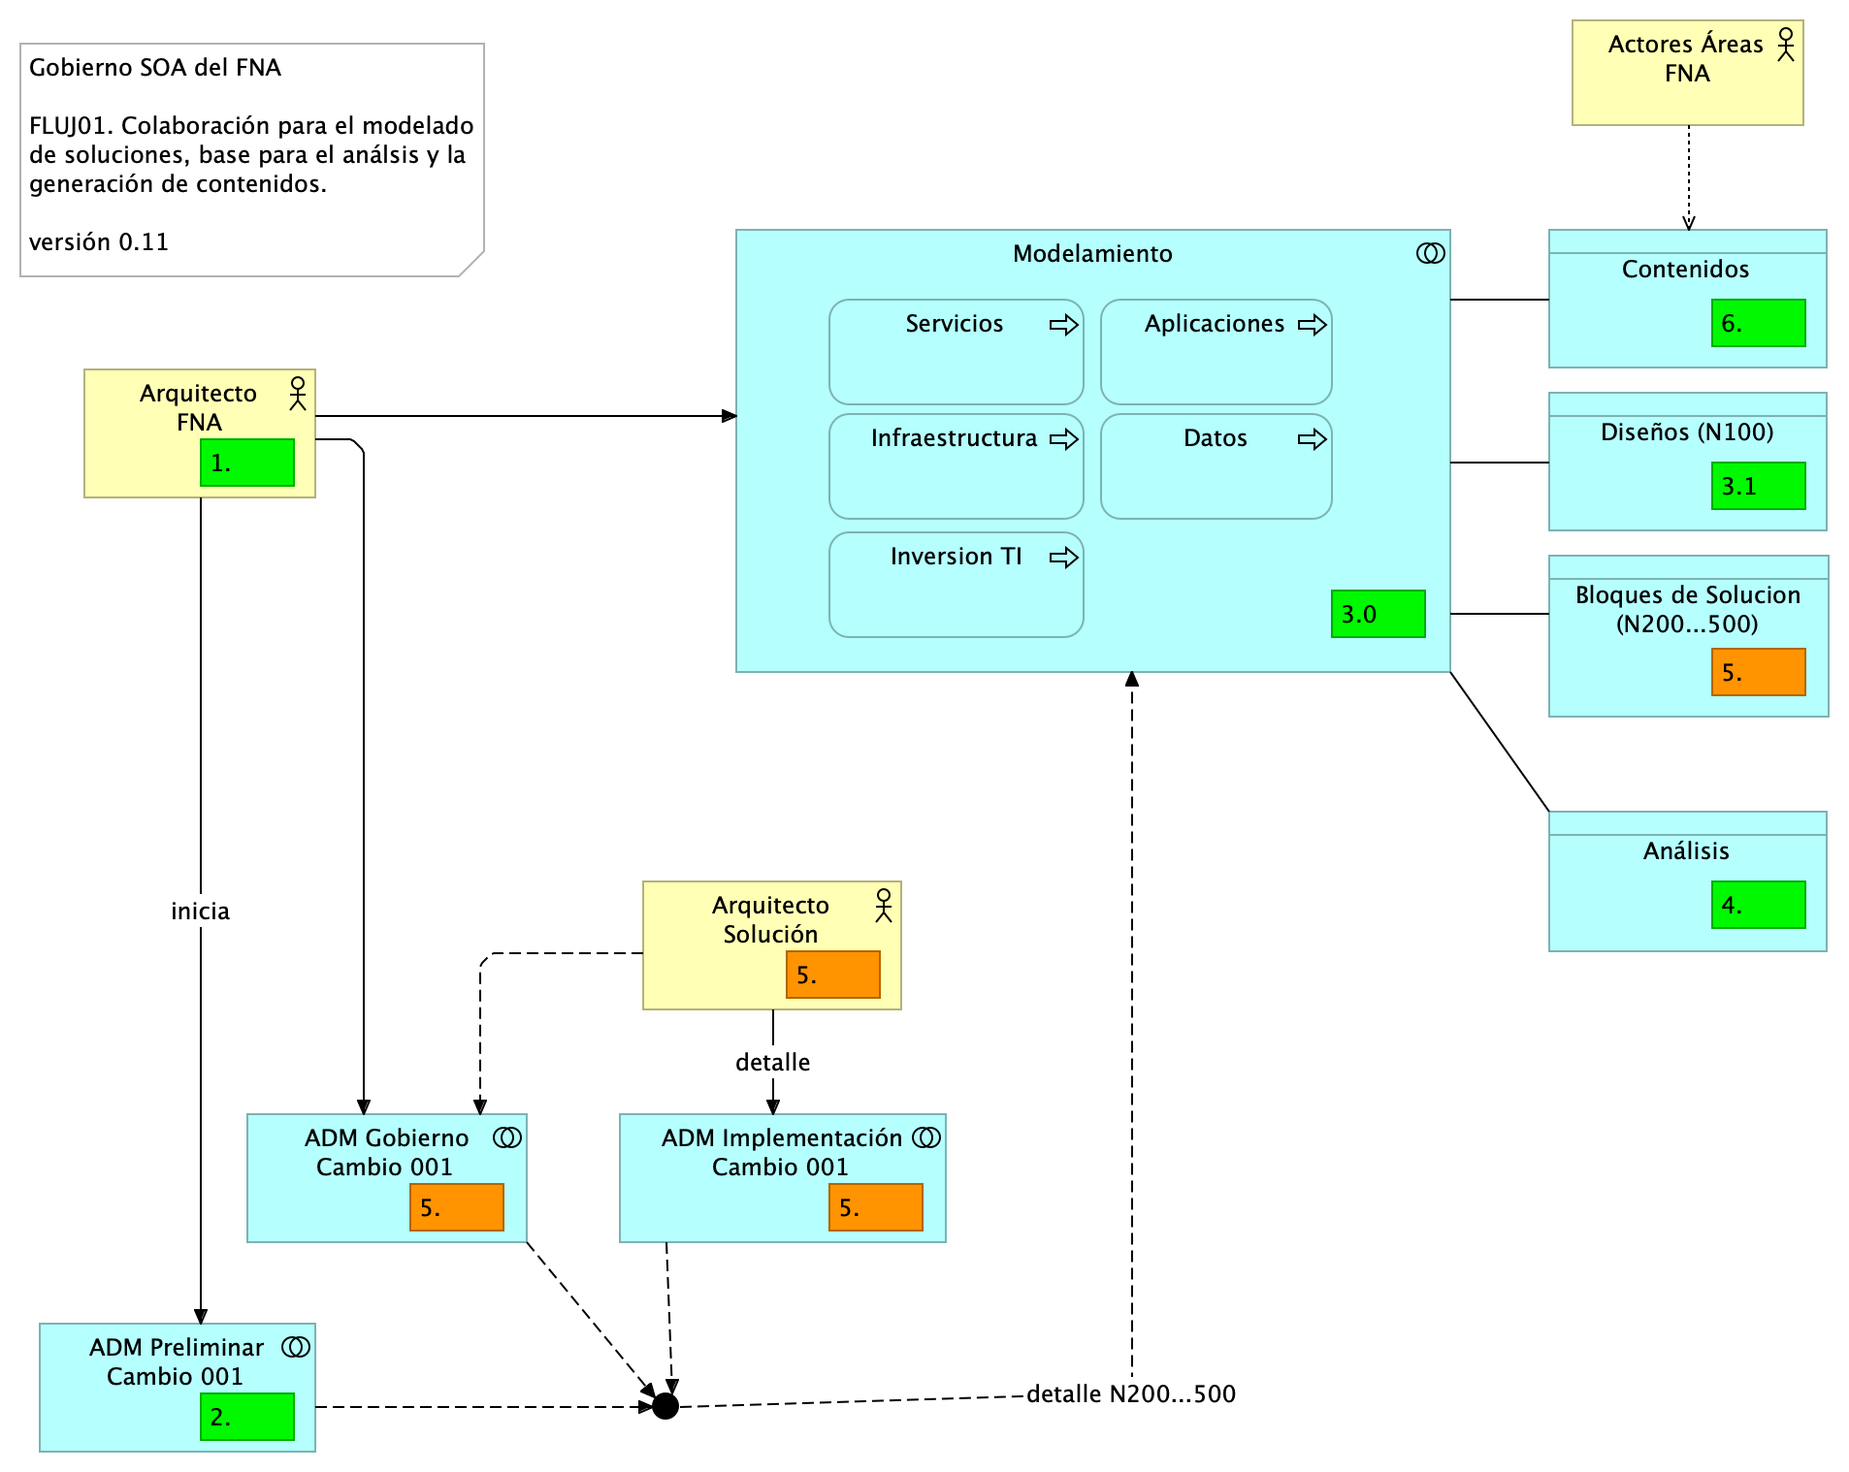
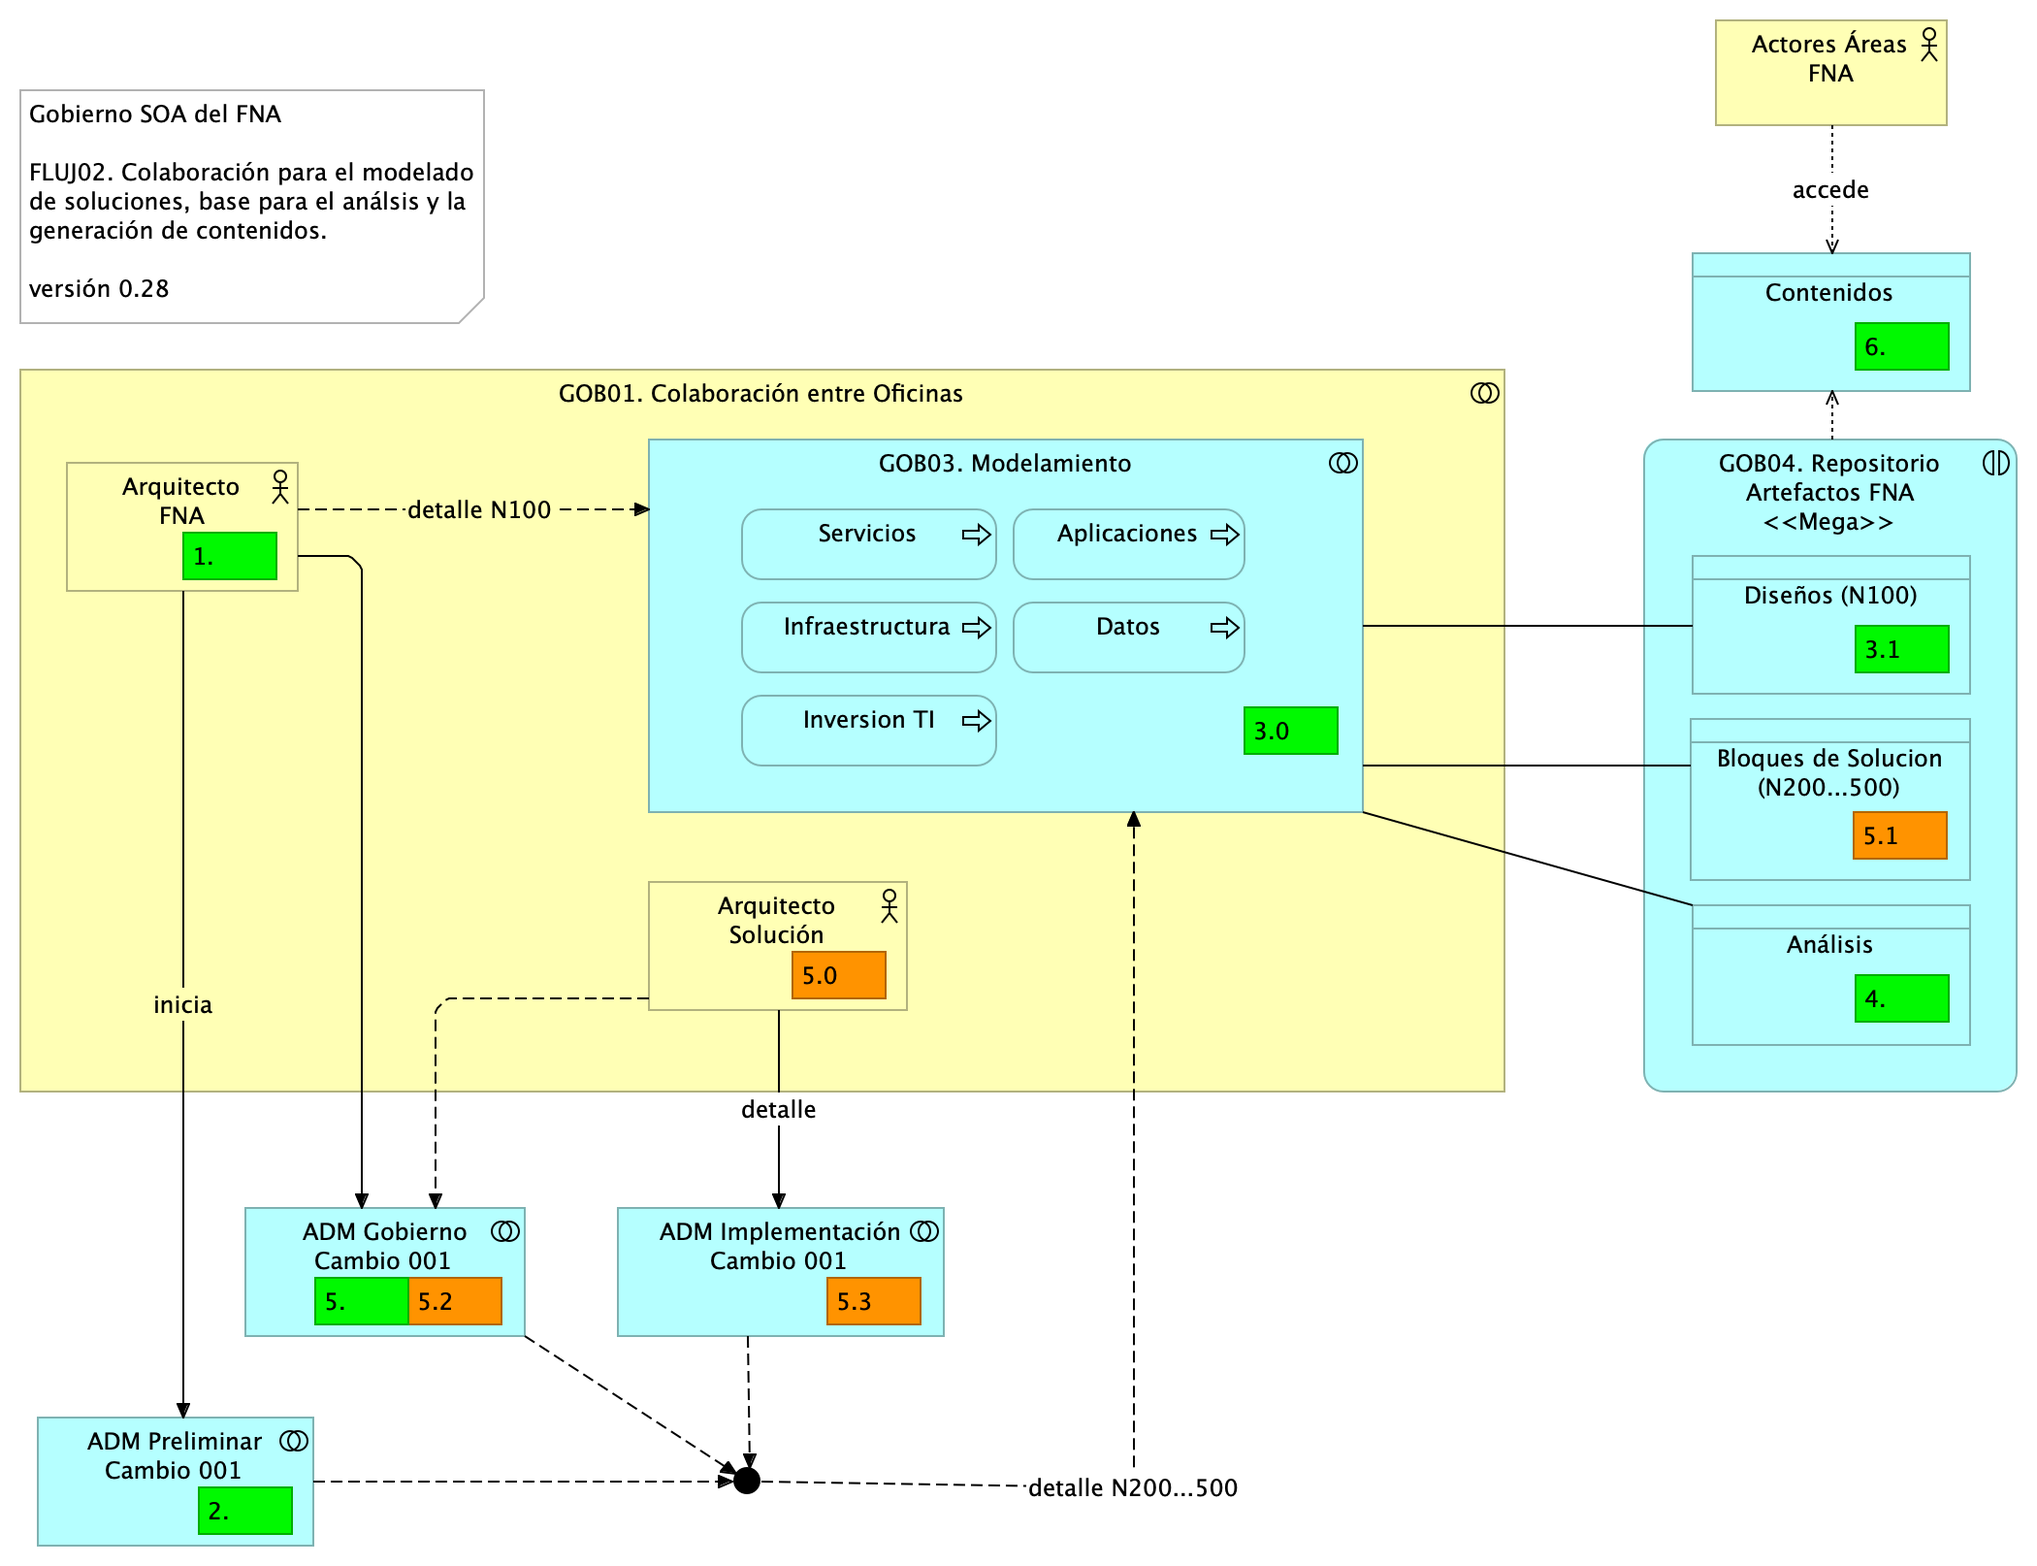
oficina--rolresp

diff --git a/content/02n.3.matrizrol-resp.md b/content/02n.3.matrizrol-resp.md
@@ -88,18 +88,33 @@ _Fuente: Elaboración propia._
 ## Responsabilidades por Rol
 Partimos del modelo de gobierno, versión 0.5.
 
+| Nombre                                         | Tipo                      | Reponsabilidades |
+|:-----------------------------------------------|:--------------------------|:---------------  |
+| **Actores Áreas FNA**                          | business-actor            | Solicitar y revisar contenidos emitidos por la oficina de arquitectura FNA |
+| **Arquitecto SOA FNA**                         | business-actor            | - Ejecutar el flujo de trabajo de la oficina de arquitectura  |
+|||                                                                            - Evaluar el apego al flujo de trabajo por parte de los arquitectos involucrados con la oficina |
+| **Arquitecto FNA**                             | business-actor            | - Ejecutar el flujo de trabajo de la oficina de arquitectura  |
+|||                                                                            - Elaborar los productos de trabajo exigidos por el gobierno SOA del FNA (ver tabla @tbl:ptexigidos-id) |
+| **Arquitecto Solución**                        | business-actor            | - Implementar los diseños provistos por la oficina de arquitectura del FNA  |
+|||                                                                          | - Contribuir con el nivel de detalle de los modelos de arquitectura de la oficina |
+| **GOB01. Colaboración entre Oficinas**         | business-collaboration    | Elaborar los registros de colaboración entre oficinas exigidos por el gobierno  |
 
+Table: Roles y Responsabilidades de la Oficina de Arquitectura FNA exigidos por el Gobierno SOA. {#tbl:rolresp-id}
 
-| Nombre                                       | Tipo                    | Descripción                                                                                                                                                                                                                                                                                                                                                                                                                                                                                                                                   |
-|----------------------------------------------|-------------------------|-----------------------------------------------------------------------------------------------------------------------------------------------------------------------------------------------------------------------------------------------------------------------------------------------------------------------------------------------------------------------------------------------------------------------------------------------------------------------------------------------------------------------------------------------|
-| **Caso Uso de Negocio**                      | business-object         |                                                                                                                                                                                                                                                                                                                                                                                                                                                                                                                                               |
-| **Inversión TI**                             | business-object         |                                                                                                                                                                                                                                                                                                                                                                                                                                                                                                                                               |
-| **Requerimiento de Arquitectura**            | business-object         |                                                                                                                                                                                                                                                                                                                                                                                                                                                                                                                                               |
+<br>
 
-| Nombre                                       | Tipo                    | Descripción                                                                                                                                                                                                                                                                                                                                                                                                                                                                                                                                   |
-|----------------------------------------------|-------------------------|-----------------------------------------------------------------------------------------------------------------------------------------------------------------------------------------------------------------------------------------------------------------------------------------------------------------------------------------------------------------------------------------------------------------------------------------------------------------------------------------------------------------------------------------------|
-| **ALS01. Complejidad**                       | assessment              |                                                                                                                                                                                                                                                                                                                                                                                                                                                                                                                                               |
-| **ALS02. Impacto**                           | assessment              |                                                                                                                                                                                                                                                                                                                                                                                                                                                                                                                                               |
-| **ALS03. Costo / Beneficio**                 | assessment              |                                                                                                                                                                                                                                                                                                                                                                                                                                                                                                                                               |
-| **ALS04. Específicos***                      | assessment              |                                                                                                                                                                                                                                                                                                                                                                                                                                                                                                                                               |
+| Productos de trabajo exigidos    | Tipo             |
+|----------------------------------|------------------|
+| **Caso Uso de Negocio**          | business-object  |
+| **Inversión TI**                 | business-object  |
+| **Requerimiento de Arquitectura**| business-object  |
+
+Table: Productos de trabajo exigidos por el Gobierno SOA. {#tbl:ptexigidos-id}
+
+| Actividades de análisis exigidas | Tipo             |
+|----------------------------------|------------------|
+| **ALS01. Complejidad**           | assessment       |
+| **ALS02. Impacto**               | assessment       |
+| **ALS03. Costo / Beneficio**     | assessment       |
+| **ALS04. Específicos***          | assessment       |
 

diff --git a/content/02n.2b.flujooficarq.md b/content/02n.2b.flujooficarq.md
@@ -8,13 +8,13 @@ fignos-caption-name: Imagen
 tablenos-caption-name: Tabla
 ...
 
-| Tema           | Modelo de Gobierno SOA. v0.5: **Flujos de Trabajo Oficina de Arquitectura** |
-|----------------|--------------------------------------------------------------------------------|
-| Palabras clave | SOA, Contexto, Áreas, Procesos, Objetivos, Flujo de trabajo                    |
-| Autor          |                                                                                |
-| Fuente         |                                                                                |
-| Versión        | **1.$COMMIT** del $FECHA_COMPILACION                                           |
-| Vínculos       | [Ejecución Plan de Trabajo SOA](onenote:#N001d.sharepoint.com); [Procesos de Negocio FNA](onenote:#N003a.com)|
+| Tema           | Modelo de Gobierno SOA. v0.5: **Flujos de Trabajo Oficina de Arquitectura**                                   |
+|----------------|---------------------------------------------------------------------------------------------------------------|
+| Palabras clave | SOA, Contexto, Áreas, Procesos, Objetivos, Flujo de trabajo                                                   |
+| Autor          |                                                                                                               |
+| Fuente         |                                                                                                               |
+| Versión        | **1.$COMMIT** del $FECHA_COMPILACION                                                                          |
+| Vínculos       | [Ejecución Plan de Trabajo SOA](onenote:#N001d.sharepoint.com); [Procesos de Negocio FNA](onenote:#N003a.com) |
 
 <br>
 
@@ -96,27 +96,27 @@ Una variante del flujo de trabajo arquitectura ADM, y más sgnificativa para el 
 [^2]: ABB y CBB, TOGAF 9.1. Características generales. En https://pubs.opengroup.org/architecture/togaf9-doc/arch/chap33.html.
 
 ### Catálogo de Elementos del Flujo de Trabajo 
-| Nombre| Tipo| Descripción| Propds.
-|:--------|:--------|:--------|:--------|
-|**ADM Gobierno Cambio 001**|application-collaboration|||
-|**ADM Implementación Cambio 001**|application-collaboration|||
-|**ADM Preliminar Cambio 001**|application-collaboration|||
-|**GOB03. Modelamiento**|application-collaboration||*gob:* 1<br>|
-|**GOB04. Repositorio Artefactos FNA <<Mega>>**|application-interaction||*gob:* 1<br>|
-|**Aplicaciones**|application-process|||
-|**Datos**|application-process|||
-|**Infraestructura**|application-process|||
-|**Inversion TI**|application-process|||
-|**Servicios**|application-process|||
-|**Actores Áreas FNA**|business-actor|||
-|**Arquitecto FNA**|business-actor|||
-|**Arquitecto Solución**|business-actor|||
-|**GOB01. Colaboración entre Oficinas**|business-collaboration||*gob:* 1<br>|
-|**Análisis**|data-object|Análisis de impacto, complejidad, plan de cambios, estimaciones, costo / b. <br>||
-|**Bloques de Solucion (N200...500)**|data-object|||
-|**Contenidos**|data-object|Presentaciones, Diagramas, Textos, Matrices, Listas, Catálogos, Estimaciones.||
-|**Diseños (N100)**|data-object|Diseños de nivel 100. Conceptuales. Necesarios para insumo de análisis de impacto, complejidad y costo / beneficio.||
-|**Junction**|junction|||
+
+| Nombre                                         | Tipo                      | Descripción                                                                                                         |
+|:-----------------------------------------------|:--------------------------|:--------------------------------------------------------------------------------------------------------------------|
+| **ADM Gobierno Cambio 001**                    | application-collaboration |                                                                                                                     |
+| **ADM Implementación Cambio 001**              | application-collaboration |                                                                                                                     |
+| **ADM Preliminar Cambio 001**                  | application-collaboration |                                                                                                                     |
+| **GOB03. Modelamiento**                        | application-collaboration |                                                                                                                     |
+| **GOB04. Repositorio Artefactos FNA <<Mega>>** | application-interaction   |                                                                                                                     |
+| **Aplicaciones**                               | application-process       |                                                                                                                     |
+| **Datos**                                      | application-process       |                                                                                                                     |
+| **Infraestructura**                            | application-process       |                                                                                                                     |
+| **Inversion TI**                               | application-process       |                                                                                                                     |
+| **Servicios**                                  | application-process       |                                                                                                                     |
+| **Actores Áreas FNA**                          | business-actor            |                                                                                                                     |
+| **Arquitecto FNA**                             | business-actor            |                                                                                                                     |
+| **Arquitecto Solución**                        | business-actor            |                                                                                                                     |
+| **GOB01. Colaboración entre Oficinas**         | business-collaboration    |                                                                                                                     |
+| **Análisis**                                   | data-object               | Análisis de impacto, complejidad, plan de cambios, estimaciones, costo / b. <br>                                    |
+| **Bloques de Solucion (N200...500)**           | data-object               |                                                                                                                     |
+| **Contenidos**                                 | data-object               | Presentaciones, Diagramas, Textos, Matrices, Listas, Catálogos, Estimaciones.                                       |
+| **Diseños (N100)**                             | data-object               | Diseños de nivel 100. Conceptuales. Necesarios para insumo de análisis de impacto, complejidad y costo / beneficio. |
 <div style="page-break-before: always;"></div>
 <br>
 
